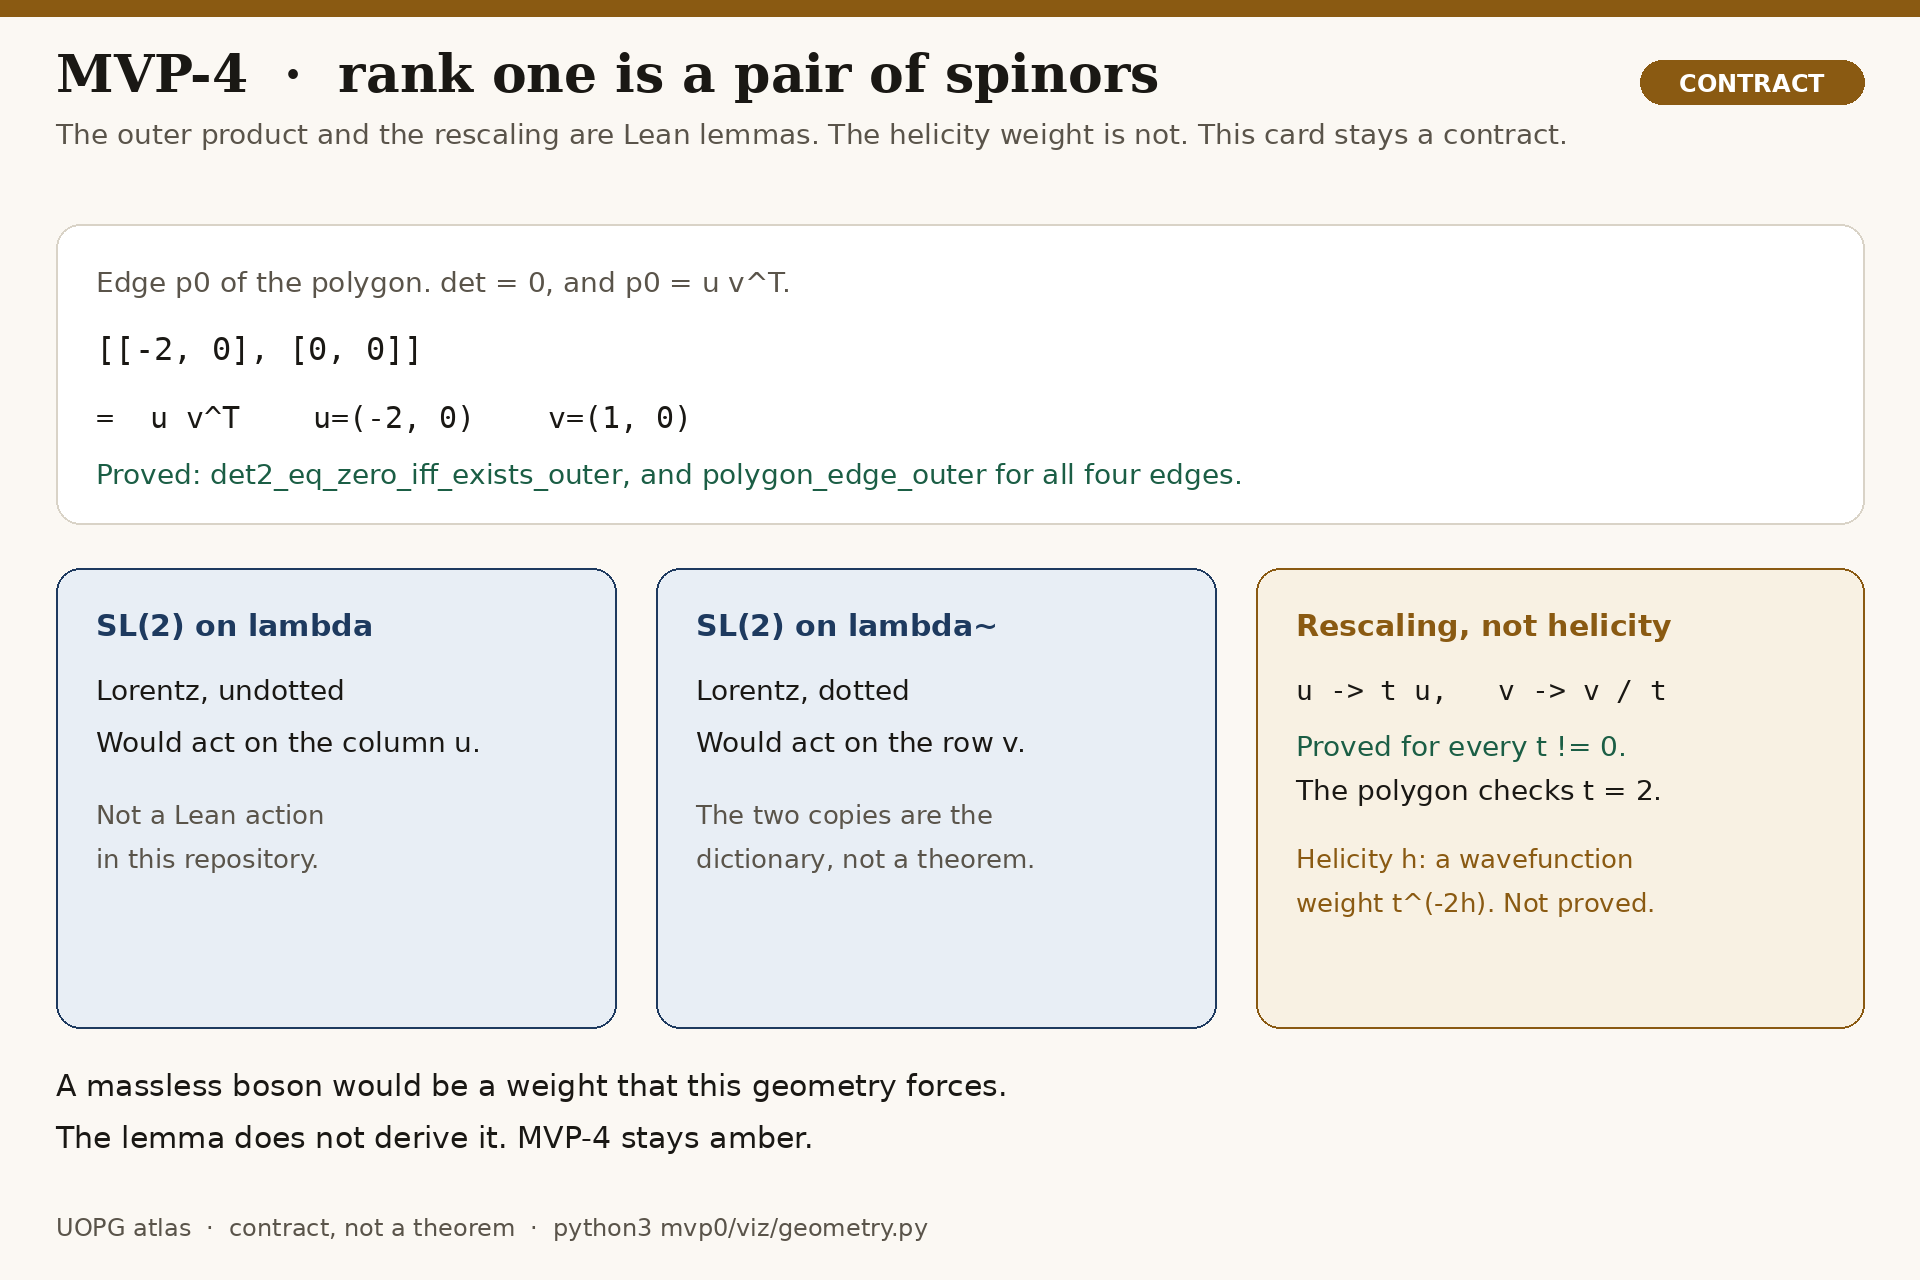
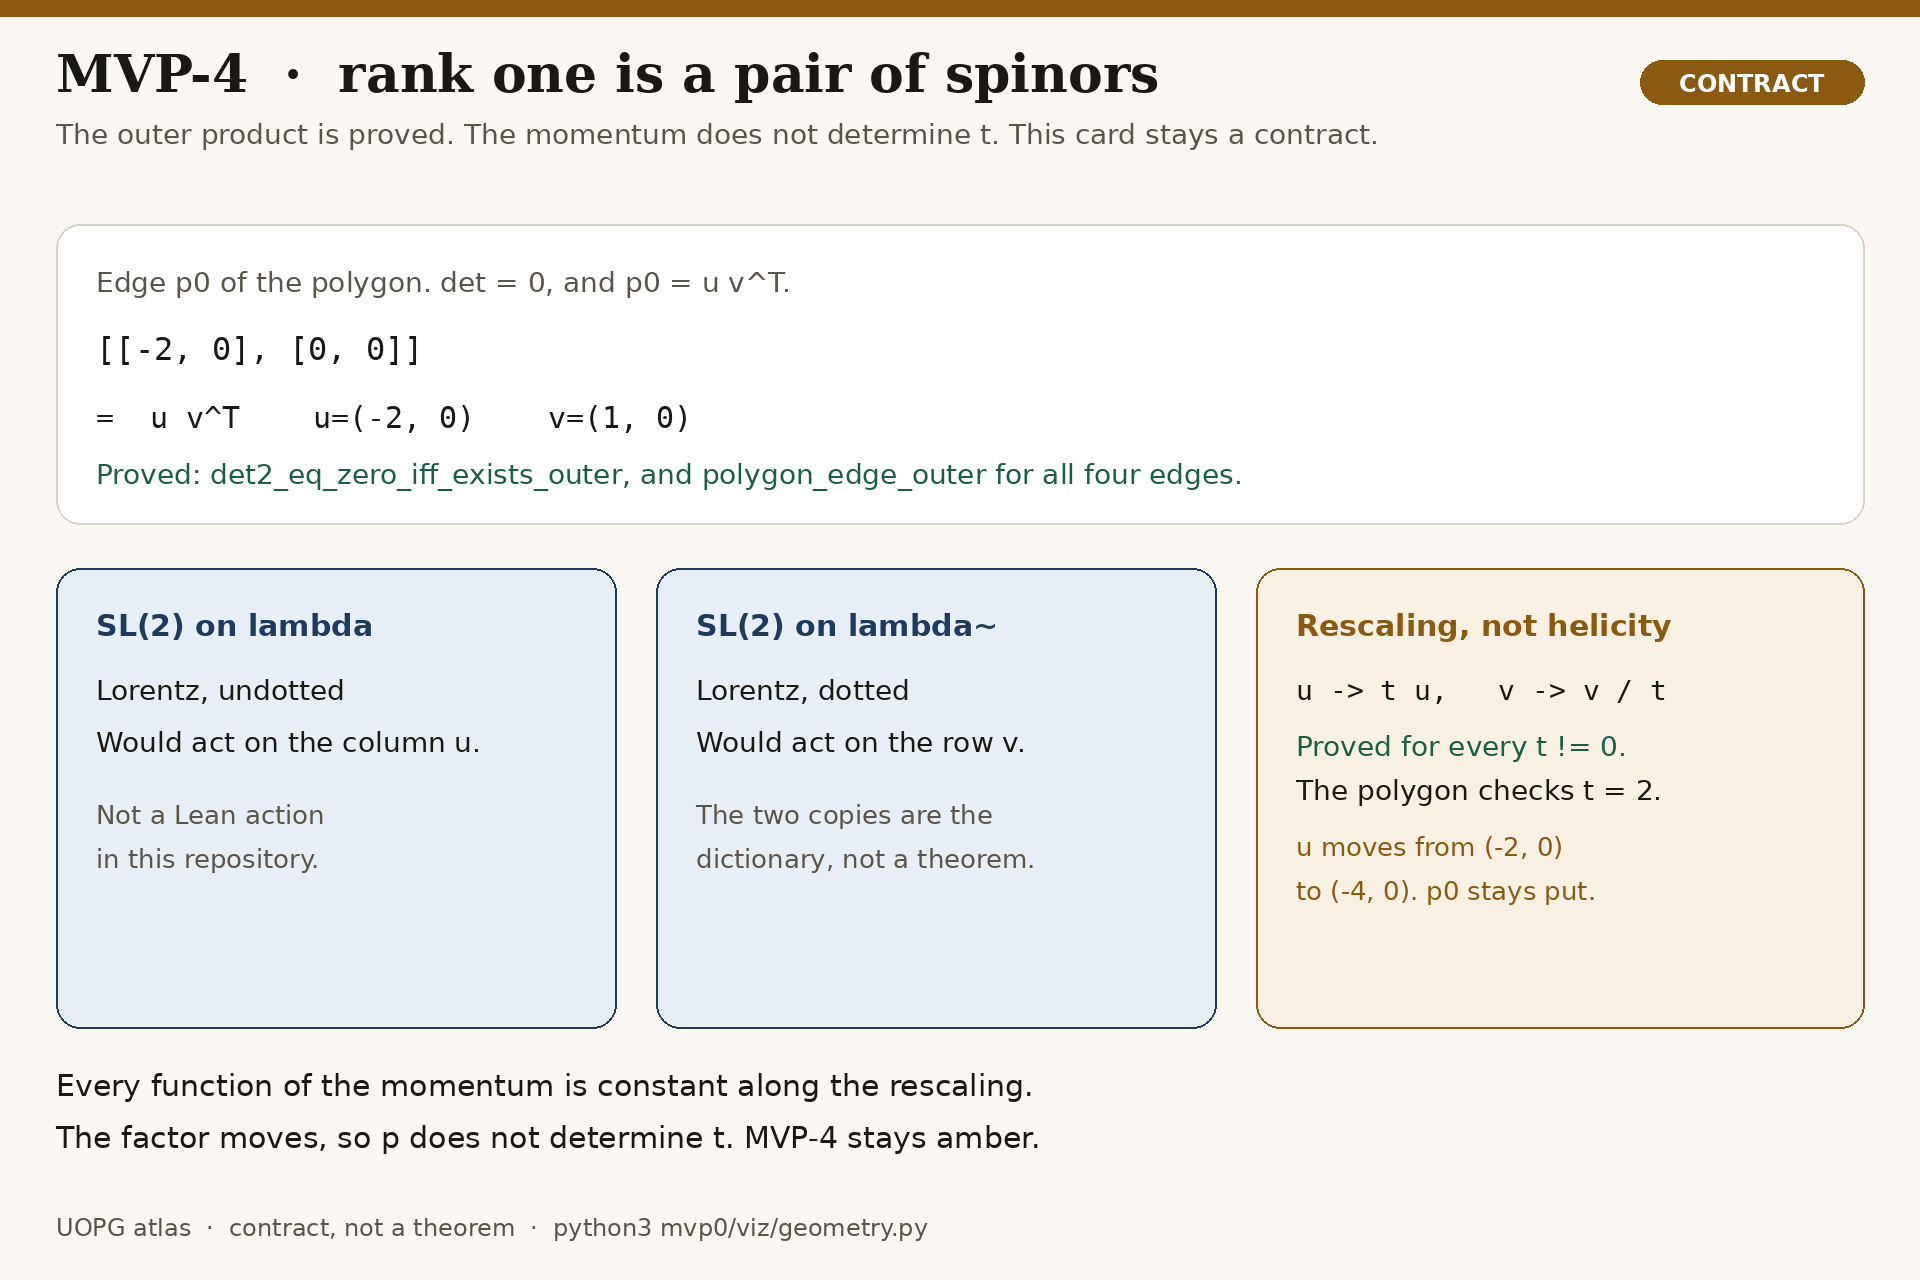
Show that the momentum does not determine t.
Freeze the Gr+(2,4) ladder. The paper title and abstract stay, labeled as the historical record. For t other than 1 a nonzero factor moves, and every function of the momentum is unchanged. On edge 0, t = 2 sends u from (-2, 0) to (-4, 0) while p stays put. MVP-4 remains a contract.

Changed region(s): [[0.0312, 0.8438, 0.5312, 0.9062], [0.1562, 0.0938, 0.8125, 0.125], [0.6562, 0.6562, 0.8438, 0.7188]]

diff --git a/mvp0/viz/geometry.py b/mvp0/viz/geometry.py
@@ -309,6 +309,12 @@ def build_shadow() -> dict:
     )
     if factors != list(expected_factors):
         raise RuntimeError(f"edge factors drifted from the Lean witness: {factors}")
+    moved_u = tuple(F(2) * c for c in factors[0][0])
+    moved_v = tuple(c / F(2) for c in factors[0][1])
+    if moved_u == factors[0][0] or moved_u != (F(-4), F(0)):
+        raise RuntimeError(f"t=2 did not move the edge-0 factor: {moved_u}")
+    if outer(moved_u, moved_v) != momenta[0]:
+        raise RuntimeError("t=2 moved the edge-0 momentum")
     tx = [lightcone_tx(e) for e in events]
 
     # Face sweep of the proved residue. y, z, w stay at the witness.
@@ -377,6 +383,7 @@ def build_shadow() -> dict:
         "brackets": brackets,
         "momenta": momenta,
         "factors": factors,
+        "moved_u": moved_u,
         "sweep": sweep,
         "shifted_minors": Ps,
         "exchange": (exchange_left, exchange_right),
@@ -429,6 +436,12 @@ def shadow_text(s: dict) -> str:
             "  edge %s u=(%s, %s) v=(%s, %s)"
             % (i, q(u[0]), q(u[1]), q(v[0]), q(v[1]))
         )
+    u0 = s["factors"][0][0]
+    lines.append(
+        "t=2 moves edge 0 u from (%s, %s) to (%s, %s); the momentum is unchanged"
+        % (q(u0[0]), q(u0[1]), q(s["moved_u"][0]), q(s["moved_u"][1]))
+    )
+    lines.append("a function of the momentum does not determine t")
     lines.append(
         "face sweep, y and z and w fixed at the witness; x*coeff stays "
         + q(s["drop_x"])
@@ -676,7 +689,7 @@ def draw_ladder(_s: dict):
         fig,
         False,
         "What each rung is",
-        "One object, Gr+(2,4). Green is checked in Lean. Amber is the job, not a result.",
+        "This ladder is frozen. Green is proved. Amber stays a contract.",
     )
     # The ladder as a whole is mixed, so the corner pill says CONTRACT would be wrong
     # for rung 0. Replace the corner pill with a quieter label by overpainting.
@@ -729,10 +742,10 @@ def draw_ladder(_s: dict):
             "MVP-4",
             "Helicity from the two SL(2)s",
             [
-                "The outer product and the rescaling are proved.",
-                "The helicity weight is not.",
+                "The momentum does not determine t.",
+                "A weight in t is not a function of p.",
             ],
-            "Lemma only. This card stays a contract.",
+            "No-go. This card stays a contract. The ladder stops.",
         ),
     ]
     top = 100
@@ -1142,7 +1155,7 @@ def draw_mvp4(s: dict):
         fig,
         False,
         "MVP-4  ·  rank one is a pair of spinors",
-        "The outer product and the rescaling are Lean lemmas. The helicity weight is not. This card stays a contract.",
+        "The outer product is proved. The momentum does not determine t. This card stays a contract.",
     )
     p0 = s["momenta"][0]
     u, v = s["factors"][0]
@@ -1169,10 +1182,10 @@ def draw_mvp4(s: dict):
     fig.text(648, 350, "u -> t u,   v -> v / t", size=14, fill=INK, kind="mono")
     fig.text(648, 378, "Proved for every t != 0.", size=14, fill=GREEN)
     fig.text(648, 400, "The polygon checks t = 2.", size=14, fill=INK)
-    fig.text(648, 434, "Helicity h: a wavefunction", size=13, fill=AMBER)
-    fig.text(648, 456, "weight t^(-2h). Not proved.", size=13, fill=AMBER)
-    fig.text(28, 548, "A massless boson would be a weight that this geometry forces.", size=15, fill=INK)
-    fig.text(28, 574, "The lemma does not derive it. MVP-4 stays amber.", size=15, fill=INK)
+    fig.text(648, 428, "u moves from (-2, 0)", size=13, fill=AMBER)
+    fig.text(648, 450, "to (-4, 0). p0 stays put.", size=13, fill=AMBER)
+    fig.text(28, 548, "Every function of the momentum is constant along the rescaling.", size=15, fill=INK)
+    fig.text(28, 574, "The factor moves, so p does not determine t. MVP-4 stays amber.", size=15, fill=INK)
     footer(fig, 618, False)
     fig.save("mvp4-helicity")
 

diff --git a/docs/ROADMAP.md b/docs/ROADMAP.md
@@ -1,6 +1,8 @@
 # MVP atlas
 
-One object: the positive Grassmannian `Gr⁺(2,4)`. Spacetime is the Klein correspondence of that object. Particles, if they come out at all, come out of the same field. A rung below is green only when Lean has checked it. An amber rung is the job, not a result.
+One object: the positive Grassmannian `Gr⁺(2,4)`. Spacetime is the Klein correspondence of that object. Particles, if they come out at all, come out of the same field. A rung below is green only when Lean has checked it. An amber rung is not a result, and it is not a promise that the rung will turn green.
+
+This ladder is frozen. No further rung will be added on `Gr⁺(2,4)`. MVP-3 stays blank. MVP-4 stays a contract, because the momentum does not determine the rescaling parameter.
 
 ![The five rungs. Green is proved. Amber is a contract.](figures/mvp-ladder.png)
 
@@ -61,11 +63,13 @@ The sweep holds `y`, `z`, and `w` at the witness and varies `x` through seven po
 
 ## MVP-4 — contract
 
-![The outer product and the rescaling are proved. The helicity weight is not, so the card stays a contract.](figures/mvp4-helicity.png)
+![The momentum does not determine t. The card stays a contract.](figures/mvp4-helicity.png)
 
 `det p = 0` is proved, and so is a nonzero kernel vector. Rank at most one is the lemma `det2_eq_zero_iff_exists_outer`: the matrix is an outer product `u vᵀ`. `outer_rescale` says `u → t u` and `v → v / t` leave that product fixed for every `t ≠ 0`. On the rational polygon the four edges are those products, and the picture's `t = 2` is `polygon_edge_rescale`. The dictionary is [lemma/DICTIONARY.md](../lemma/DICTIONARY.md).
 
-That is still not a helicity. A massless boson would be a weight the geometry forces on a wavefunction, and there is no wavefunction in the lemma. The two Lorentz `SL(2)` actions are not theorems. MVP-4 stays a contract. It does not become a gluon, a W, a Z, or a fermion by being the last rung on this ladder.
+The same `t = 2` moves the column factor. `rescale_moves_factor` says that if `u ≠ 0` and `t ≠ 1`, then `t u ≠ u`. `matrix_invariant_along_rescale` says that every function of the matrix takes the same value on the rescaled factors. On edge 0 the factor moves from `(−2, 0)` to `(−4, 0)` and `p` stays `[[−2, 0], [0, 0]]`. That is `edge0_momentum_misses_t`. The momentum does not determine `t`. A helicity would be a weight in `t` on a function, and this geometry has only supplied `p`. The weight is not a function of `p`.
+
+There is still no wavefunction, and the two Lorentz `SL(2)` actions are not theorems. MVP-4 stays a contract. It does not become a gluon, a W, a Z, or a fermion. The ladder stops here.
 
 ## What is not in the atlas
 
@@ -76,4 +80,4 @@ That is still not a helicity. A massless boson would be a weight the geometry fo
 - a GeV produced by the geometry
 - a cross section, a wave equation, or a Monte Carlo calibration
 
-`Gr⁺(2,4)` is one massless 4-point positive geometry. Distinguishing Standard Model bosons, or adding a fermion, would be a new rung. None of that is implied by MVP-4, and none of it is scheduled.
+`Gr⁺(2,4)` is one massless 4-point positive geometry. Distinguishing Standard Model bosons, or adding a fermion, would be a new object, not a new card on this ladder. The ladder is closed.

diff --git a/README.md b/README.md
@@ -1,9 +1,8 @@
-# UOPG-Emergent-Spacetime
-UOPG: Emergent Spacetime and Particles from the Positive Grassmannian  A geometric bootstrap model where positivity-preserving Plücker mutations on Gr+(k,n) generate an emergent curved metric projecting to 3+1D Lorentzian spacetime. Wave interference produces particles, entanglement, annihilation, and chiral asymmetry. Calibrated to the LHC W-boson
+# UOPG
 
-# UOPG: Emergent Spacetime and Particles from the Positive Grassmannian
+One object: the positive Grassmannian `Gr⁺(2,4)`. Spacetime is its Klein correspondence. A particle is not a theorem of this repository.
 
-**A Geometric Model Calibrated to LHC W-Boson Mass**
+What is proved, and what is only a contract, is the status below. The title and abstract of the 2026 paper are kept afterwards, word for word, as a historical record. They are not the status of the proofs. The Zenodo record is left as published.
 
 ## Status
 
@@ -19,6 +18,8 @@ The third checked piece is [MVP-2](mvp2/README.md). The denominator vanishes exa
 
 The rank-one lemma is [lemma/README.md](lemma/README.md). A singular `2 × 2` matrix is an outer product, and `u → t u`, `v → v / t` leaves it fixed. On the polygon the four edges match the factors in the shadow, including the rescaling at `t = 2`. That is not a helicity, and it does not turn the MVP-4 card green. MVP-3 stays blank. See [lemma/DICTIONARY.md](lemma/DICTIONARY.md).
 
+The ladder on `Gr⁺(2,4)` is frozen. There is no further rung. A function of the momentum is constant along the rescaling, while `t = 2` moves the edge-0 factor from `(−2, 0)` to `(−4, 0)`. The momentum does not determine `t`, and so it does not determine a helicity. MVP-4 stays a contract.
+
 `UOPG.lean` and `UOPGv2.lean` are drafts from March and April 2026. They are not kernel-checked proofs. `m_W = 80.4 GeV` is not a theorem of this repository.
 
 - **Paper**: [article.pdf](https://doi.org/10.5281/zenodo.19291218)
@@ -31,6 +32,14 @@ The rank-one lemma is [lemma/README.md](lemma/README.md). A singular `2 × 2` ma
 - **Numerical notebook**: [uopgv2.ipynb](uopgv2.ipynb)
 - **Slide Deck**: [UOPG v2 Slide deck](https://github.com/savanc/UOPG-Emergent-Spacetime/blob/main/Unified_Positive_Geometry.pdf)
   
+## Historical paper
+
+The following title and abstract are the published paper. They are not the status of this repository.
+
+**UOPG: Emergent Spacetime and Particles from the Positive Grassmannian**
+
+**A Geometric Model Calibrated to LHC W-Boson Mass**
+
 ## Abstract
 We present a geometric model in which the positive Grassmannian Gr+(k,n) serves as the single underlying structure. Positivity-preserving mutations generate curvature that projects to 3+1D Lorentzian spacetime. Wave interference on the emergent metric produces particles, entanglement, annihilation, and chiral asymmetry. The model is calibrated so the W-boson mass is exactly 80.4 GeV.
 

diff --git a/lemma/DICTIONARY.md b/lemma/DICTIONARY.md
@@ -8,7 +8,8 @@ The proofs are in `mvp0/lean/UOPG0/RankOne.lean`. They use the MVP-0 edge moment
 |---|---|---|
 | `det(u vᵀ) = 0`. | An outer product of two vectors in `k²` is singular. | That the two vectors are a unique factorisation. The next row is the ambiguity. |
 | `det m = 0` if and only if `m = u vᵀ` for some `u` and `v`. | Rank at most one. This is the factorisation the atlas draws for a null edge. | A preferred spinor frame. A polarisation sum. |
-| For `t ≠ 0`, ` (t u) (v / t)ᵀ = u vᵀ `. | The opposite rescaling. The matrix, which is the edge momentum, stays fixed. | A helicity. The physics weight would be `t^(−2h)` on a wavefunction. There is no wavefunction in this lemma. |
+| For `t ≠ 0`, ` (t u) (v / t)ᵀ = u vᵀ `. | The opposite rescaling. The matrix, which is the edge momentum, stays fixed. | A preferred value of `t`. The next row says the momentum cannot choose one. |
+| If `t ≠ 1` and `u ≠ 0`, then `t u ≠ u`. Every function of the outer product is unchanged. On edge 0, `t = 2` sends `u` from `(−2, 0)` to `(−4, 0)` and leaves `p` fixed. | The momentum does not determine `t`. A weight in `t` is not a function of `p`. This is why MVP-4 does not turn green. | A wavefunction. A value of the helicity. The two Lorentz `SL(2)` actions. A gluon, a W, a Z, or a fermion. |
 | Each of the four polygon edges equals the factor exhibited in the shadow. At `t = 2` the rescaled factors give the same edge. | The picture on the MVP-4 card, for this one rational polygon. | That the card is a theorem. The Lorentz actions of the two `SL(2)`s are not proved. MVP-4 stays a contract. |
 
 The factors are `u = (−2, 0)`, `(0, −2)`, `(2, 0)`, `(0, 2)` and `v = (1, 0)`, `(0, 1)`, `(1, 0)`, `(0, 1)`.

diff --git a/lemma/README.md b/lemma/README.md
@@ -4,7 +4,7 @@ Not an MVP. The ladder does not gain a green rung here.
 
 `det m = 0` if and only if `m = u vᵀ`. For `t ≠ 0`, sending `u` to `t u` and `v` to `v / t` does not change `m`. On the rational polygon from MVP-0, the four edges are the factors in the shadow, and `t = 2` is the rescaling drawn on the MVP-4 card.
 
-That card stays amber. The lemma is the linear algebra under the picture. A helicity would be a weight on a wavefunction, and there is no wavefunction here. MVP-3 is untouched: no ratio, no GeV.
+That card stays amber, and the ladder is frozen. There is no further rung on `Gr⁺(2,4)`. For `t ≠ 1` the factor `u` moves, and every function of the momentum stays fixed, so the momentum does not determine `t`. On edge 0, `t = 2` sends `u` from `(−2, 0)` to `(−4, 0)` while `p` stays put. A helicity would be a weight in `t` on a function this geometry has not supplied. MVP-3 is untouched: no ratio, no GeV.
 
 Read [DICTIONARY.md](DICTIONARY.md). The proofs are `mvp0/lean/UOPG0/RankOne.lean`.
 
@@ -16,4 +16,4 @@ cd ../..
 ./lemma/check.sh
 ```
 
-`lake exe rankone` prints the four factors and that the rescaling agrees. It does not print a helicity or a mass.
+`lake exe rankone` prints the four factors, that the rescaling agrees, and that `t = 2` moves edge 0 from `(−2, 0)` to `(−4, 0)`. It does not print a helicity or a mass.
